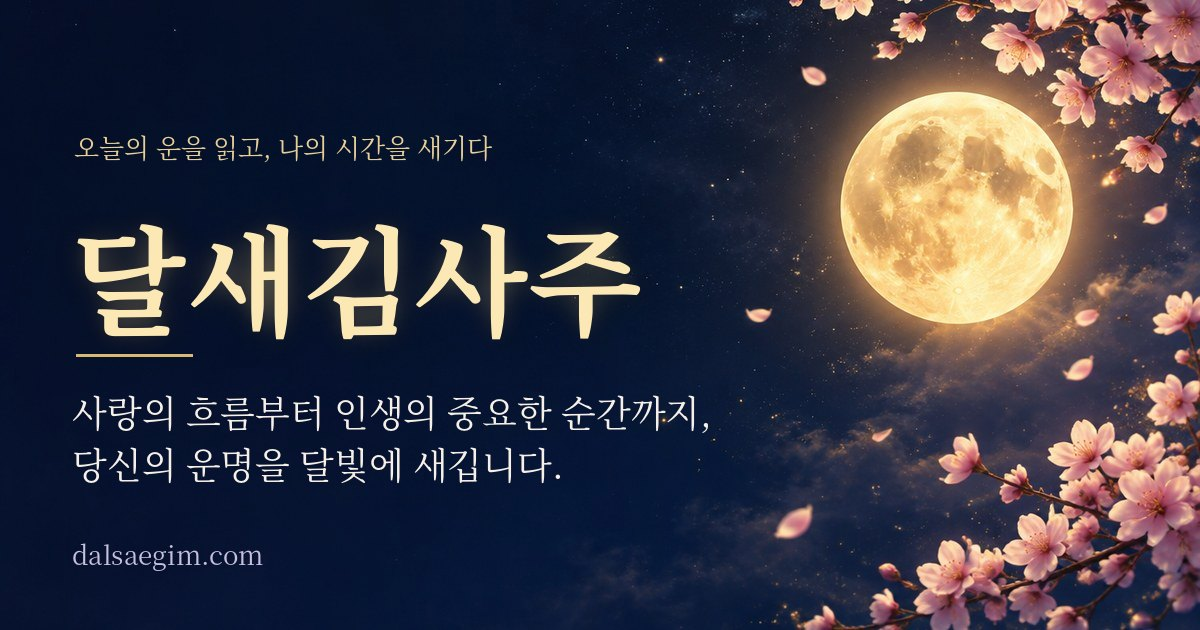
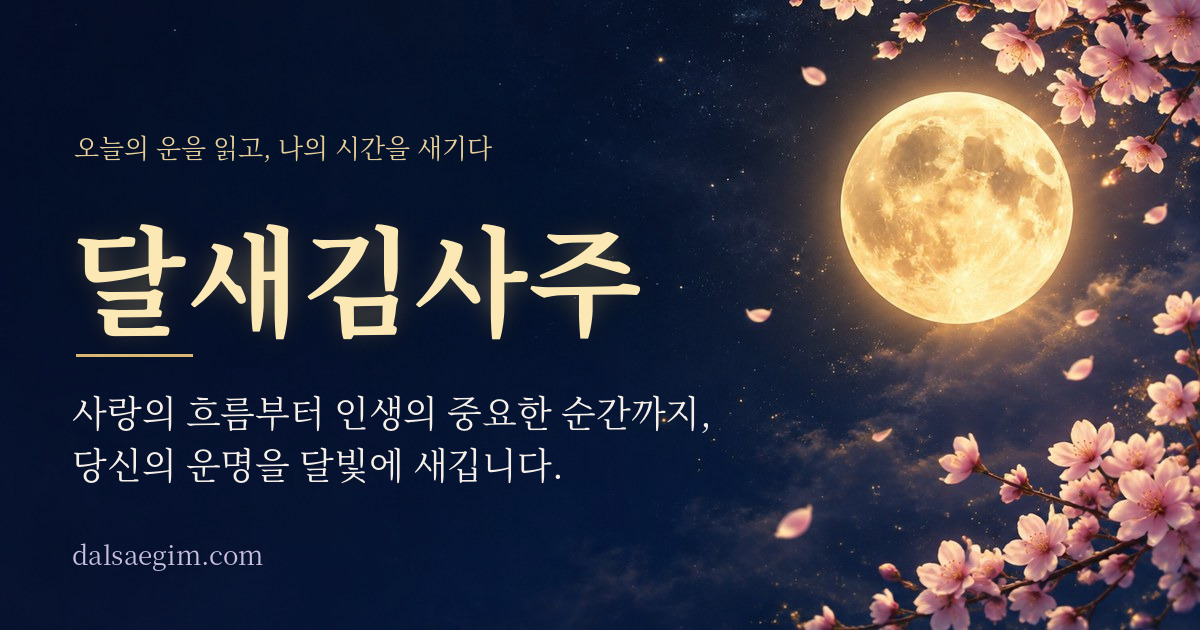
탈퇴 후 사주·이름이 다시 저장돼 보이던 문제 수정, 공유 미리보기 이미지 고화질 재저장(v3)
Claude-Session: https://claude.ai/code/session_01B6L3f9rj3XmK3JJaLYns3K

Changed region(s): [[0.0617, 0.2111, 0.2158, 0.2714], [0.2467, 0.2111, 0.4008, 0.2714], [0.0617, 0.5429, 0.1542, 0.573]]

diff --git a/web/src/pages/Me.tsx b/web/src/pages/Me.tsx
@@ -79,7 +79,11 @@ export default function Me() {
   const toggleMem = async () => { const v = !memAI; setMemAI(v); await apiAuth('/me/settings', { method: 'POST', json: { memoryAI: v } }).catch(() => {}); toast(v ? '달빛 상담사가 기록을 참고해요' : '이제 기록을 참고하지 않아요'); };
   const leave = async () => {
     await apiAuth('/me/delete', { method: 'POST', json: {} }).catch(() => {});
-    localStorage.removeItem('dalsaegim'); clearGuest(); setAccount(null);
+    // 화면 저장소를 먼저 비운다 — localStorage 만 지우면 다음 상태 변경 때 사주·이름이 다시 저장돼 탈퇴 뒤에도 보였다(11/2 대표님)
+    useApp.setState({ profiles: [], mainId: null, account: null, friendChatId: null, persona: null, pass: false });
+    useApp.persist?.clearStorage?.();
+    try { for (const k of Object.keys(localStorage)) if (k.startsWith('dalsaegim')) localStorage.removeItem(k); } catch { /* */ }
+    clearGuest();
     toast('탈퇴했어요. 그동안 고마웠어요'); nav('/', { replace: true }); location.reload();
   };
   return (

diff --git a/web/index.html b/web/index.html
@@ -9,7 +9,7 @@
     <meta property="og:site_name" content="달새김사주" />
     <meta property="og:title" content="달새김사주" />
     <meta property="og:description" content="사랑의 흐름부터 인생의 중요한 순간까지, 당신의 운명을 달빛에 새깁니다." />
-    <meta property="og:image" content="https://dalsaegim.com/img/og.jpg?v=2" />
+    <meta property="og:image" content="https://dalsaegim.com/img/og.jpg?v=3" />
     <meta property="og:image:width" content="1200" />
     <meta property="og:image:height" content="630" />
     <meta property="og:image:alt" content="달새김사주 — 황금빛 달과 벚꽃이 있는 밤하늘" />

diff --git a/web/src/lib/share.ts b/web/src/lib/share.ts
@@ -70,7 +70,7 @@ export async function kakaoShare(o: { title: string; text: string; url: string; 
   const K = await loadKakao(key);
   K.Share.sendDefault({
     objectType: 'feed',
-    content: { title: o.title, description: o.text, imageUrl: o.imageUrl ?? `${location.origin}/img/og.jpg?v=2`, link: { mobileWebUrl: o.url, webUrl: o.url } },
+    content: { title: o.title, description: o.text, imageUrl: o.imageUrl ?? `${location.origin}/img/og.jpg?v=3`, link: { mobileWebUrl: o.url, webUrl: o.url } },
     buttons: [{ title: '달새김에서 보기', link: { mobileWebUrl: o.url, webUrl: o.url } }],
   });
   return 'shared';

diff --git a/docs/결정기록.md b/docs/결정기록.md
@@ -147,3 +147,9 @@
 - 원인: 대표님 휴대폰(네이버 앱 안 브라우저)에 저장된 사주 id(p_…)가 서버에서는 이미 다른 사용자(다른 기기·로그인 전 계정) 것으로 저장돼 있어, 결제 직전 사주 저장(POST /profiles)이 중복 키 500 → 주문이 '내 사주 아님' 400 으로 막힘. PC는 정상.
 - 수정: 서버는 같은 id 가 다른 사용자 것이면 새 id 로 저장해 돌려줌. 화면(syncProfile)은 바뀐 id 를 이 기기 저장값에 반영하고 그 id 로 주문·상담·편지·기록.
 - 테스트: 다른 사용자 id 로 저장 → 새 id → 주문 200, 원래 주인 사주 유지.
+
+## D90 (11/3) 탈퇴 후 개인정보 남음 수정 · 공유 미리보기 이미지
+- 탈퇴: localStorage 만 지우고 상태를 바꾸면 persist 저장소가 사주·이름을 다시 써서 탈퇴 뒤에도 보였음 → 화면 저장소를 먼저 비우고(profiles·mainId·account 등), dalsaegim* 키 전부 삭제 후 새로고침.
+- 공유 미리보기(og.jpg) 다시 저장(글자 뭉개짐 줄이도록 고화질 JPEG), 캐시 무효화 ?v=3.
+- 홈 '대표 운세' 아이콘 섞임은 10/28(54a6561)부터 상품 그림 3장으로 이미 통일 — 대표님 화면은 예전 화면이 남아 있던 것(새로고침 안내).
+- 분량 결정(사장님 11/3): 30~40쪽 기준, 가격 비례. 진행표: 프로젝트 문서 달새김사주-PDF전상품-작업진행-2026-11-03.
